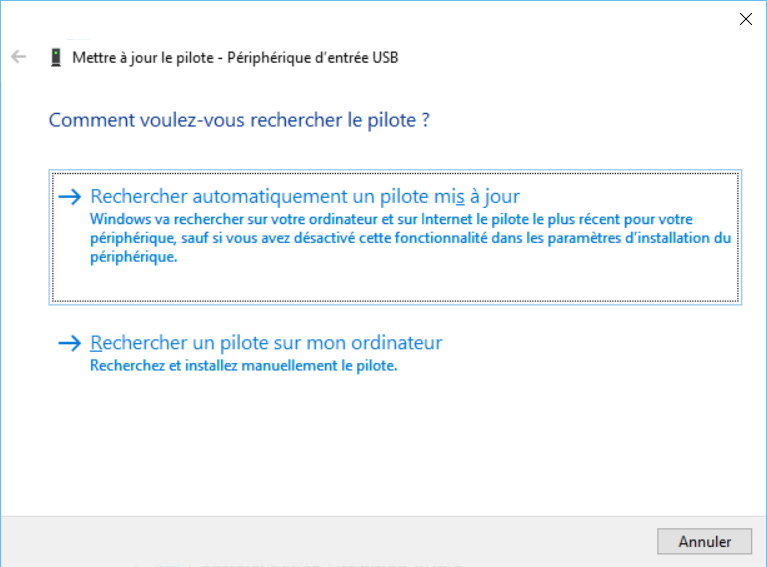
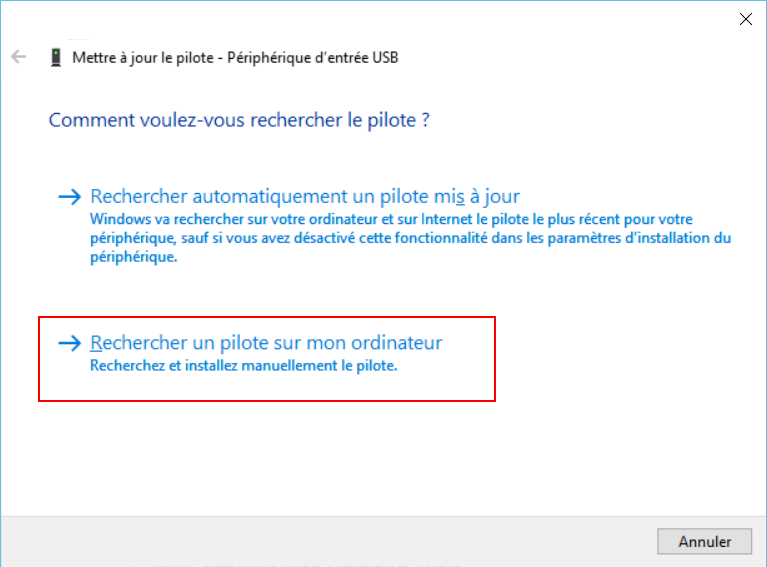
Complete README instructions.

Changed region(s): [[0.06, 0.2998, 0.9896, 0.5697], [0.06, 0.6896, 0.6597, 0.7196]]

diff --git a/README.md b/README.md
@@ -2,7 +2,7 @@ NVIDIA Shield Controller Windows driver
 =======================
 This small USB filter driver intercepts and tweaks the reported HID Report Descriptor to make DirectInput detect it.
 
-NVIDIA previously published a driver that was only usable if you had a NVIDIA graphics card, and also has issues on its own. Excluding AMD and Intel graphics card owners has made a lot of people extremely displeased. I've bought Tegra hardware (nVidia Shield tablet and Jetson) and used to applaud their open source efforts, but screwing their game controller buyers like this makes me regret my decision.
+NVIDIA previously published a driver that was only usable if you had a NVIDIA graphics card, and also has issues on its own anyway. Excluding AMD and Intel graphics card owners has made a lot of people extremely displeased. I've bought Tegra hardware (nVidia Shield tablet and Jetson) and used to applaud their open source efforts, but screwing their game controller buyers like this makes me regret my decision.
 
 What was the issue?
 --------------
@@ -35,7 +35,7 @@ Making this driver was helped tremendously by `usbhid-dump`, `hidrd-convert`, Wi
 
 Installation and signing issue
 --------------
-The driver isn't signed (signing a driver costs $260), and on recent Windows versions it's not possible to permanently disable signing checks, so for example on Windows 10 you first have to do the following:
+The driver isn't signed (signing a driver would cost me $260), and on recent Windows versions it's not possible to permanently disable signing checks, so for example on Windows 10 you first have to do the following:
 
 > Click the Start Start menu and select Settings.
 > Click Update and Security.
@@ -51,5 +51,15 @@ The driver isn't signed (signing a driver costs $260), and on recent Windows ver
 
 Once the signing check is disabled you can install the driver by right-click on the .inf file and selecting `Install`.
 
-The generic driver still takes precedence over unsigned drivers, so you now have to manually select the driver for you Shield controller in the device manager:
+The generic driver still takes precedence over unsigned drivers, so you now have to manually select the driver for you Shield controller in the device manager. First display devices by connection, so you can find your controller easily:
 
+![alt text](https://github.com/Syniurge/ShieldControllerWinDriver/blob/master/doc/DevMgrByConnection.png "DevMgrByConnection")
+![alt text](https://github.com/Syniurge/ShieldControllerWinDriver/blob/master/doc/ShieldControllerPID.png "ShieldControllerPID")
+
+Then select the **top** `USB input device` node the choose "Update the driver..", and then:
+
+![alt text](https://github.com/Syniurge/ShieldControllerWinDriver/blob/master/doc/ShieldCtrlDriverStep1.png "ShieldCtrlDriverStep1")
+![alt text](https://github.com/Syniurge/ShieldControllerWinDriver/blob/master/doc/ShieldCtrlDriverStep2.png "ShieldCtrlDriverStep2")
+![alt text](https://github.com/Syniurge/ShieldControllerWinDriver/blob/master/doc/ShieldCtrlDriverStep3.png "ShieldCtrlDriverStep3")
+
+Finally disconnect and reconnect the controller as switching drivers sometimes causes problems. It should now be detected as a DirectInput gamepad, in games, x360ce, etc.
